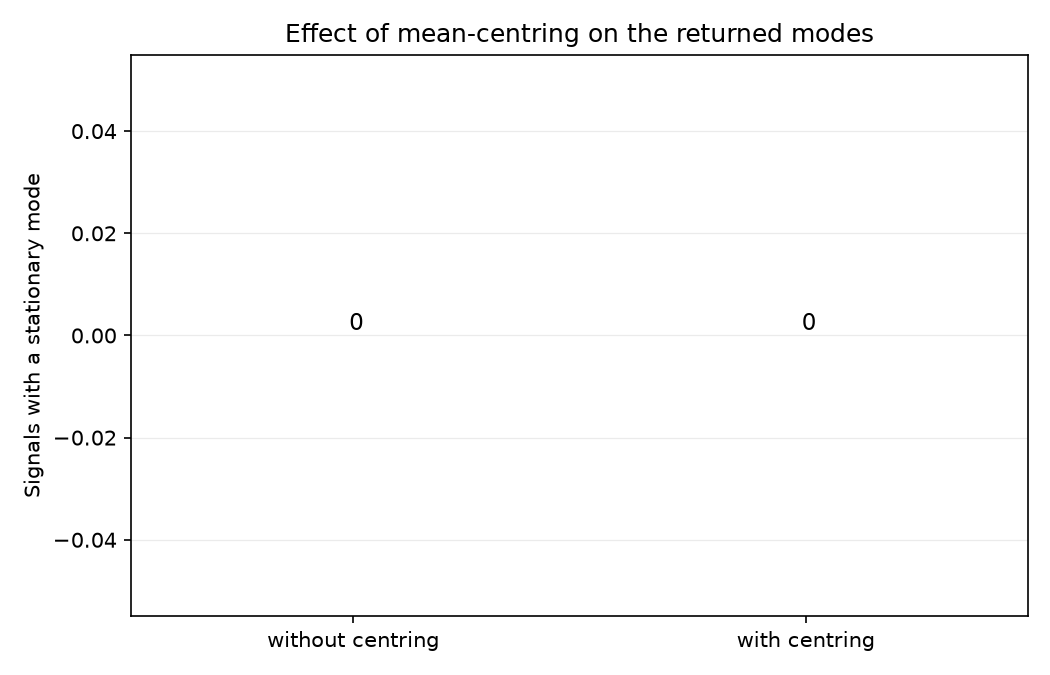
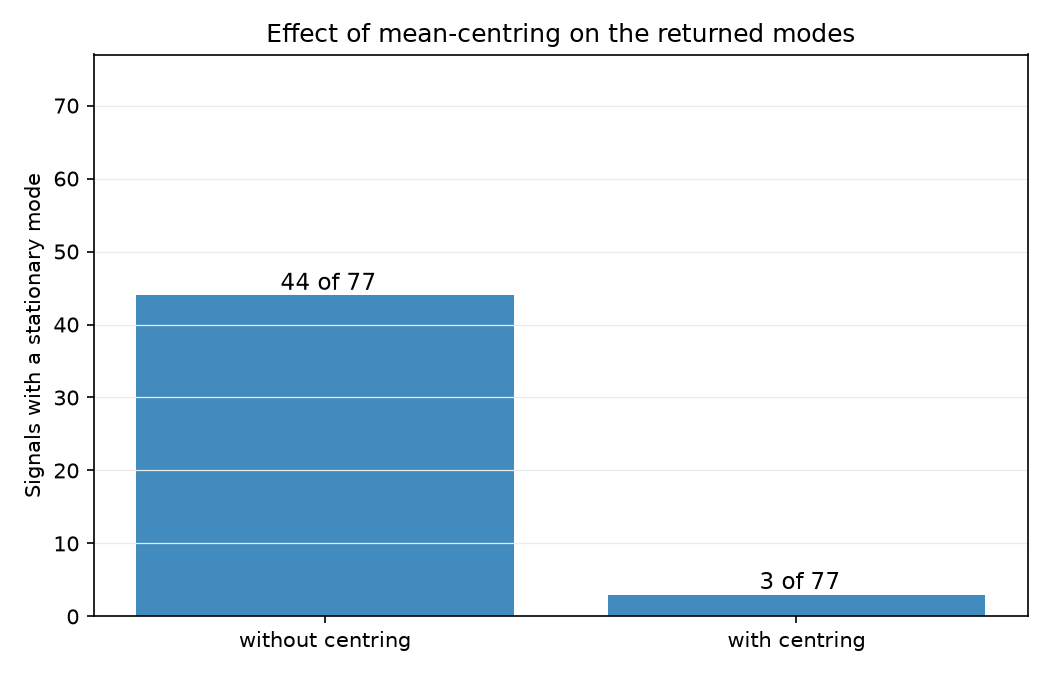
Use physical tolerances for stationary modes and report Nyquist modes

diff --git a/scripts/dmd_structure_diagnostic.py b/scripts/dmd_structure_diagnostic.py
@@ -45,9 +45,18 @@ from mat_spectrogram_features import (
 )
 from dmd import dmd, mode_energies, mode_frequencies, mode_growth_rates
 
-# A mode counts as stationary when both descriptors sit this close to zero
-STATIONARY_F_TOL = 1e-6   # Hz
-STATIONARY_G_TOL = 1e-6   # 1/s
+# A mode counts as stationary when it barely oscillates and barely changes
+# level. The tolerances are set against the physical scale of the data, not
+# against machine precision: a pass lasts about 4.8 s, so 0.05 Hz is under a
+# quarter of a cycle across the whole recording, and 0.5 1/s is far below the
+# median decay rate of the set. Exact zeros do not occur in measured data.
+STATIONARY_F_TOL = 0.05   # Hz
+STATIONARY_G_TOL = 0.5    # 1/s
+
+# Eigenvalues on the negative real axis return a frequency of exactly the
+# Nyquist limit, 1 / (2 dt). These are a sampling artefact rather than a
+# resolved oscillation, so they are counted separately and reported.
+NYQUIST_TOL = 1e-6        # Hz, relative to the Nyquist frequency
 
 # Conjugate pairs describe one oscillation; two modes are treated as the same
 # physical component when their descriptors agree to this precision
@@ -83,6 +92,17 @@ def load_linear_spectrogram(
 
     return np.nan_to_num(spectrogram, nan=0.0, posinf=0.0, neginf=0.0)
 
+def flag_nyquist_modes(freqs: np.ndarray, dt: float) -> np.ndarray:
+    """Mark modes whose frequency sits at the Nyquist limit.
+
+    An eigenvalue on the negative real axis has phase pi, which maps to a
+    frequency of exactly 1 / (2 dt). Nothing faster can be represented at this
+    sampling rate, so such a mode reports the fastest frequency the grid
+    allows rather than a resolved oscillation. They are identified here so
+    their number is known before the features are built.
+    """
+    nyquist = 1.0 / (2.0 * dt)
+    return np.abs(freqs - nyquist) < NYQUIST_TOL
 
 def deduplicate_pairs(freqs, growths, energies):
     """Keep one representative per complex-conjugate pair.
@@ -172,8 +192,9 @@ def plot_descriptor_histograms(freqs, growths, out_path):
     plt.close(fig)
 
 
-def plot_centring_comparison(stationary_counts, out_path):
-    """Compare how many stationary modes appear with and without centring."""
+def plot_centring_comparison(stationary_counts, n_signals, out_path):
+    """Compare how many signals return a stationary mode, with and without
+    the time-mean removed."""
     fig, ax = plt.subplots(figsize=(7, 4.5))
 
     labels = ["without centring", "with centring"]
@@ -182,11 +203,14 @@ def plot_centring_comparison(stationary_counts, out_path):
     ax.bar(labels, values, color="tab:blue", alpha=0.85)
     ax.set_ylabel("Signals with a stationary mode")
     ax.set_title("Effect of mean-centring on the returned modes")
+    # a fixed axis keeps the two bars comparable against the set size
+    ax.set_ylim(0, n_signals)
     ax.grid(True, axis="y", color="0.92", linewidth=0.6)
 
     # print the count above each bar so the figure is readable on its own
     for i, value in enumerate(values):
-        ax.text(i, value, f" {value}", ha="center", va="bottom", fontsize=11)
+        ax.text(i, value, f" {value} of {n_signals}",
+                ha="center", va="bottom", fontsize=11)
 
     fig.tight_layout()
     fig.savefig(out_path, dpi=150)
@@ -249,6 +273,8 @@ def main() -> int:
     pooled_a = []
     modes_per_signal = []
     stationary_counts = {"centred": 0, "uncentred": 0}
+    nyquist_total = 0           # modes reported at the sampling limit
+    nyquist_signals = 0         # signals carrying at least one such mode
     errors = []
 
     for mat_path in files:
@@ -267,6 +293,13 @@ def main() -> int:
             pooled_g.append(g_c)
             pooled_a.append(a_c)
             modes_per_signal.append(len(f_c))
+
+            # modes at the sampling limit are counted but not removed here;
+            # this diagnostic reports what is present, it does not filter
+            at_nyquist = flag_nyquist_modes(f_c, args.dt)
+            nyquist_total += int(np.sum(at_nyquist))
+            if np.any(at_nyquist):
+                nyquist_signals += 1
 
             # a stationary mode neither oscillates nor changes level
             if np.any((np.abs(f_c) < STATIONARY_F_TOL)
@@ -304,7 +337,7 @@ def main() -> int:
                           out_dir / "mode_frequency_growth.png", n_signals)
     plot_descriptor_histograms(freqs, growths,
                                out_dir / "descriptor_histograms.png")
-    plot_centring_comparison(stationary_counts,
+    plot_centring_comparison(stationary_counts, n_signals,
                              out_dir / "centring_comparison.png")
 
     # ---- summary ----
@@ -329,9 +362,14 @@ def main() -> int:
         f"  growing (g > 0): {int(np.sum(growths > 0))}",
         f"  decaying (g < 0): {int(np.sum(growths < 0))}",
         "",
-        "Stationary modes (frequency and growth rate both near zero):",
+        f"Stationary modes (|f| < {STATIONARY_F_TOL} Hz and "
+        f"|g| < {STATIONARY_G_TOL} 1/s):",
         f"  without centring: {stationary_counts['uncentred']} of {n_signals} signals",
         f"  with centring:    {stationary_counts['centred']} of {n_signals} signals",
+        "",
+        f"Modes at the Nyquist limit ({1.0 / (2.0 * args.dt):.2f} Hz):",
+        f"  modes:   {nyquist_total} of {len(freqs)}",
+        f"  signals: {nyquist_signals} of {n_signals}",
     ]
 
     report = "\n".join(lines)
